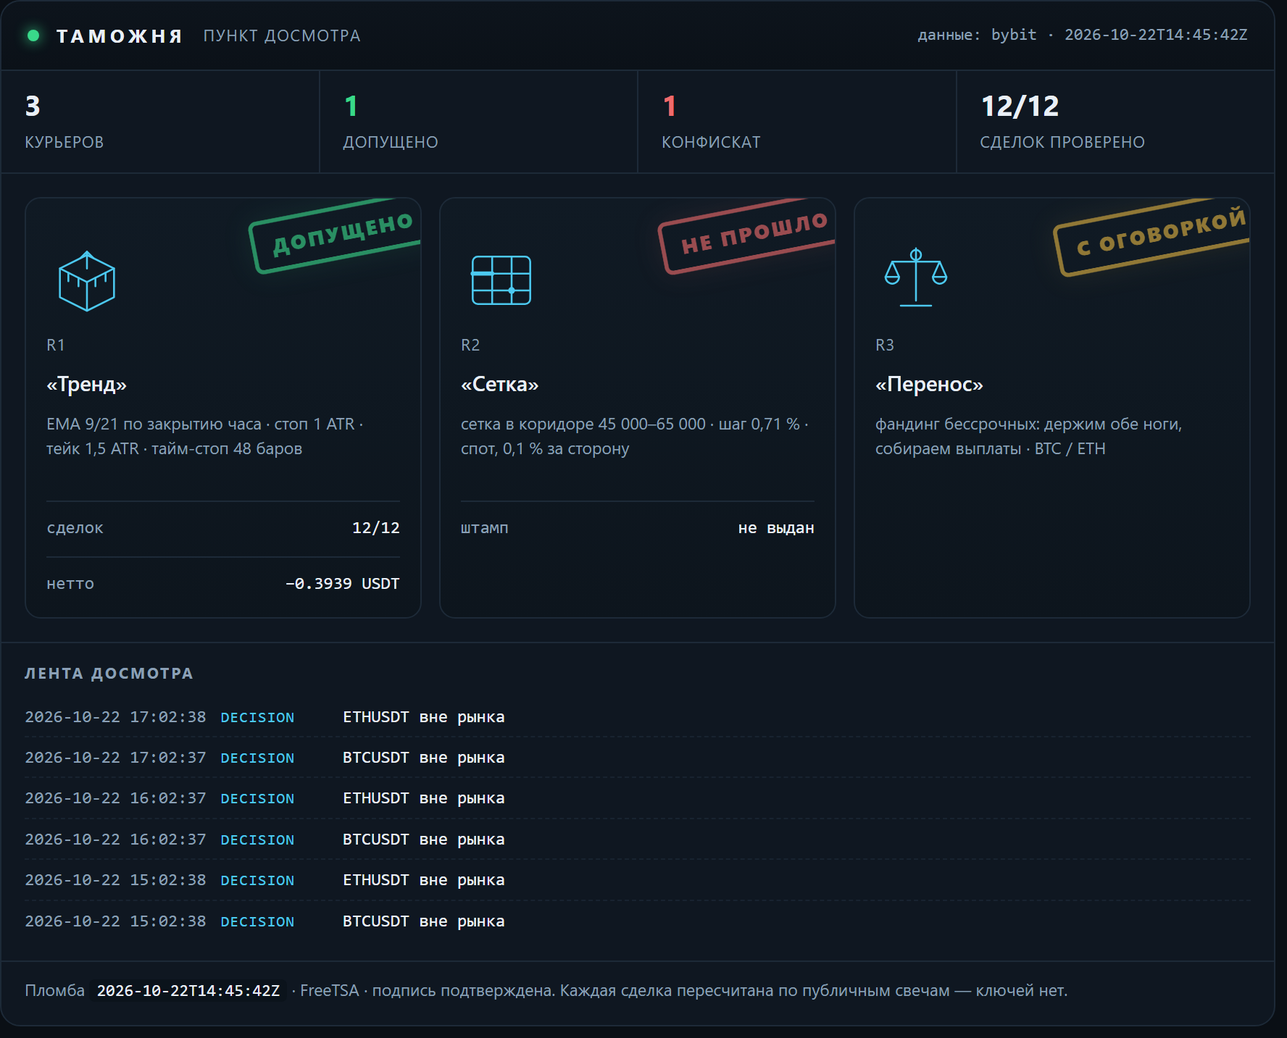
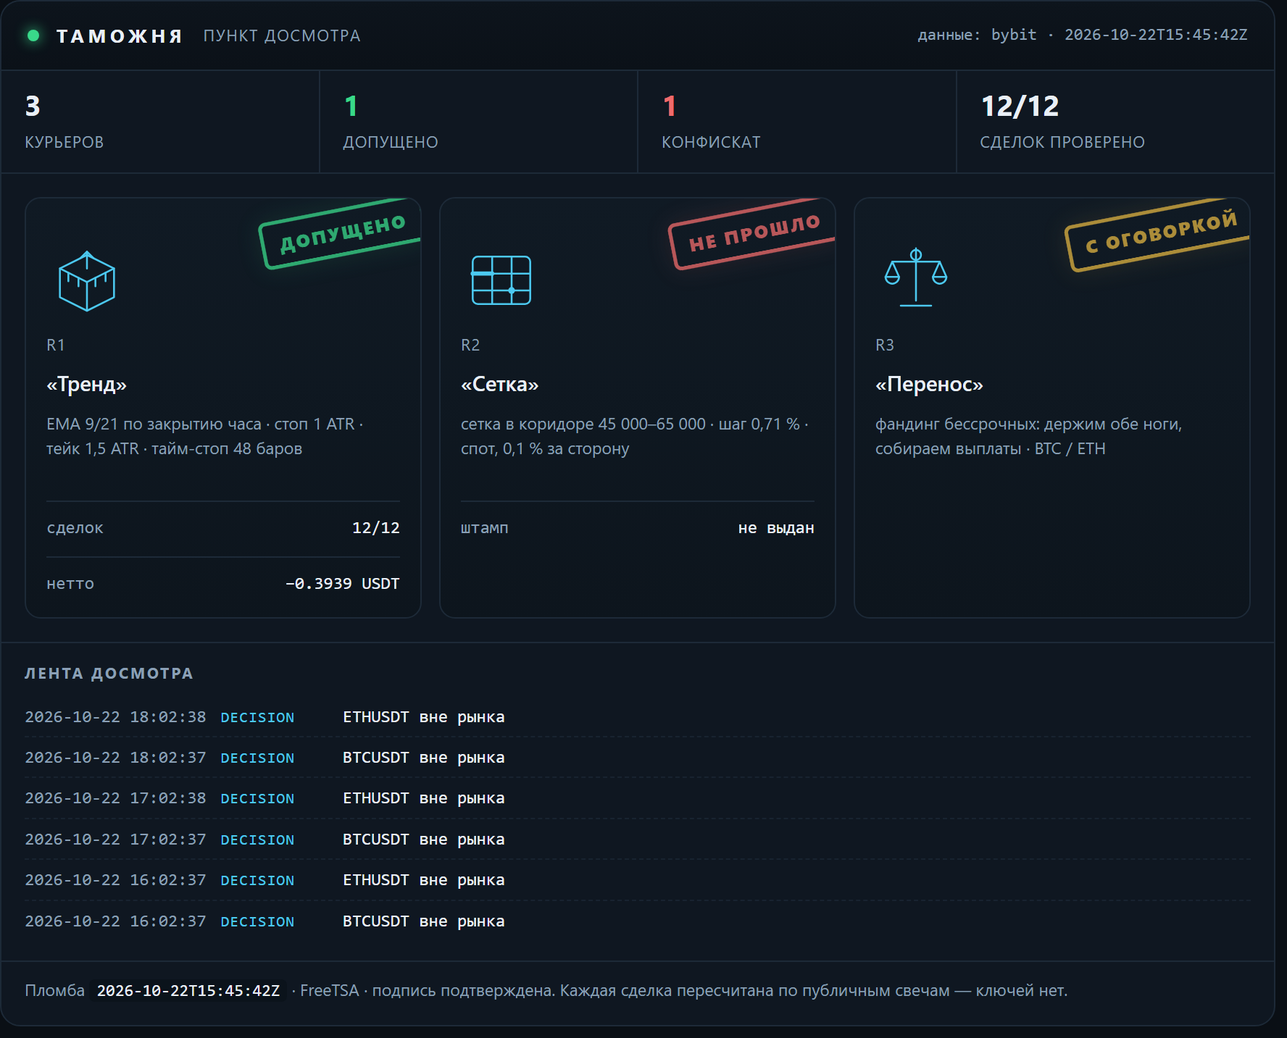
lab: таможня — свежие числа досмотра

Changed region(s): [[0.8052, 0.1842, 0.96, 0.2763], [0.4955, 0.1842, 0.6503, 0.2763], [0.1858, 0.1842, 0.3407, 0.2763]]

diff --git a/docs/customs.html b/docs/customs.html
@@ -16,7 +16,7 @@
   <h1><a href="index.html">Gramwright Lab</a></h1>
   <p>Журнал проверки торговых гипотез: что проверяли, что вышло по факту, сколько съели издержки. Числа берутся из журнала стенда. Не инвестиционная рекомендация.</p>
 </header>
-<h1>Таможня</h1><p class="intro">Пункт досмотра заявленных результатов. Стратегии приезжают с грузом обещаний, и каждая проходит проверку по публичным данным биржи: цены существуют, комиссии по тарифу, нетто сходится. Что прошло — получает штамп. Что не прошло — в конфискат, с причиной. Штамп означает «записи подлинные», а не «стратегия прибыльна».</p><p><img src="img/customs.png" alt="Терминал досмотра: три курьера, штампы, лента событий" style="width:100%;height:auto;border:1px solid var(--line);border-radius:10px"></p><p class="c-note">Сверху — тот же терминал, что собирается из журналов: счётчики, эмблемы курьеров, штампы и лента последних событий. Ниже — то же самое текстом, чтобы читалось с телефона и индексировалось поиском.</p><article><h2>R1 «Тренд» <span class="verdict">— <span class="c-ok">допущено</span></span></h2><p><strong>Правило:</strong> EMA 9/21 по закрытию часа · стоп 1 ATR · тейк 1,5 ATR · тайм-стоп 48 баров</p><p><strong>Декларация:</strong> Заявлено до прогона: держать 30 сделок, лимит нотионала 10 % от счёта, стоп дня −1 %. Прибыль не заявлялась — это важно: курьер не обещал доход.</p><p><strong>Проверено по публичным свечам, без ключей:</strong> 12 из 12 сделок. Сумма нетто −0.3939 USDT.</p><ul class="c-chk"><li class="y">BTCUSDT: нетто −0.8746 USDT · комиссии 0.0901 · проверено · с поправкой</li><li class="y">BTCUSDT: нетто −0.5441 USDT · комиссии 0.0896 · проверено</li><li class="y">ETHUSDT: нетто −0.2253 USDT · комиссии 0.0266 · проверено</li><li class="y">ETHUSDT: нетто −0.1513 USDT · комиссии 0.0265 · проверено</li><li class="y">ETHUSDT: нетто +0.1984 USDT · комиссии 0.0262 · проверено</li><li class="y">ETHUSDT: нетто +0.1617 USDT · комиссии 0.0260 · проверено</li><li class="y">ETHUSDT: нетто +0.2645 USDT · комиссии 0.0263 · проверено</li><li class="y">BTCUSDT: нетто +0.6246 USDT · комиссии 0.0897 · проверено</li><li class="y">BTCUSDT: нетто −0.5881 USDT · комиссии 0.0910 · проверено</li><li class="y">ETHUSDT: нетто −0.2403 USDT · комиссии 0.0270 · проверено</li><li class="y">BTCUSDT: нетто +0.6908 USDT · комиссии 0.0908 · проверено</li><li class="y">ETHUSDT: нетто +0.2898 USDT · комиссии 0.0267 · проверено</li></ul><p class="tags">журнал sha256 9651e2c36b77c64c… · проверяльщик verify-1</p><p class="c-note">Штамп означает: записи подлинные, а не что стратегия прибыльна. Курьер в минусе, и минус тоже стоит на штампе — иначе это была бы не проверка, а реклама.</p><p class="tags">источник: verify-report.json</p></article><article><h2>R2 «Сетка» <span class="verdict">— <span class="c-bad">не прошло</span></span></h2><p><strong>Правило:</strong> сетка в коридоре 45 000–65 000 · шаг 0,71 % · спот, 0,1 % за сторону</p><p><strong>Декларация:</strong> Заявлено: «44 % урожая уходит бирже в виде комиссий». Кроме того — перевес над простым владением монетой.</p><p><strong>Что сошлось:</strong></p><ul class="c-chk"><li class="y">сами числа пересчитаны и воспроизводятся: коридор 45–65k был активен 23 % всей истории и 28 % последних двух лет</li></ul><p><strong>Что не сошлось:</strong></p><ul class="c-chk"><li class="n">44 % не подтвердилось: при шаге 0,71 % и тарифе 0,1 % комиссия съедает 28,3 % шага. Чтобы получить 44 %, нужен шаг 0,45 % — это около 80 уровней, а не 50</li><li class="n">от урожая доля комиссий 85,5 % за всю историю и 49,6 % за последние два года — тоже не 44 %</li><li class="n">перевес над владением посчитан на тарифе 0,055 %: при нём +1,32 п. п., на розничном 0,1 % — −0,72 п. п. То есть перевес исчезает</li><li class="n">семилетний тест стартовал в сентябре 2019 при биткоине около 10 000 — ниже коридора. Он говорит, что фиксированный коридор не подходит для периода, а не что сетка отстаёт</li></ul><p class="tags">источник: lab_grid.py, пересчёт 17.10.2026</p></article><article><h2>R3 «Перенос» <span class="verdict">— <span class="c-warn">с оговоркой</span></span></h2><p><strong>Правило:</strong> фандинг бессрочных: держим обе ноги, собираем выплаты · BTC / ETH</p><p><strong>Декларация:</strong> Заявлено: около 11,9 % в год от выплат фандинга при просадке выплатной кривой меньше 2 %.</p><p><strong>Что сошлось:</strong></p><ul class="c-chk"><li class="y">выплаты взяты из публичной истории биржи, ключей не нужно: BTC — 7 190 выплат с 25.03.2020, ETH — 6 561 с 21.10.2020</li><li class="y">сумма сходится: +83,4 % и +83,2 % за 6,6 и 6,0 года — те самые ~11,9 % в год</li><li class="y">худшая просадка выплатной кривой: −1,65 % и −1,97 %</li></ul><p><strong>Что не сошлось:</strong></p><ul class="c-chk"><li class="n">оговорка 1: премию сжали — 2021 год дал +38,3 %, 2026 — +1,96 %. Прошлое не повторяется</li><li class="n">оговорка 2: вход-выход стоит около 0,31 %, капитала нужно 1,2 от нотионала, текущий базис −0,082 % против входа</li><li class="n">оговорка 3: риск площадки. История FTX в этой же таблице выглядела так же прилично</li></ul><p class="tags">источник: публичная история фандинга Bybit, замер 17.10.2026</p></article><div class="c-conf"><h3>Конфискат</h3><p><strong>«Сетка»: заявленные 44 % комиссий не подтвердились.</strong> Досмотр показал 28,3 % от шага и 85,5 % от урожая — цифра хуже заявленной по форме, но лучше по смыслу: сетку убивает не размер шага, а то, что урожай почти весь уходит в комиссии. Это и вышло в выпуск — с поправкой, а не с красивой цифрой.</p></div><p class="c-note">Пломба: <code>2026-10-22T14:45:42Z</code> · нотариус FreeTSA · Oct 22 14:45:42 2026 GMT · подпись подтверждена. Манифест скрепляет отчёт проверки, журнал сделок и декларации курьеров: подменишь любую цифру — пломба перестанет сходиться.</p><p class="c-note">Досмотр идёт по публичным минутным свечам и публичной истории фандинга — ключей у проверяющего нет, и он может повторить проверку сам.</p><p class="c-note">Контент образовательный, не является инвестиционной рекомендацией. Торговля связана с риском потери капитала.</p>
+<h1>Таможня</h1><p class="intro">Пункт досмотра заявленных результатов. Стратегии приезжают с грузом обещаний, и каждая проходит проверку по публичным данным биржи: цены существуют, комиссии по тарифу, нетто сходится. Что прошло — получает штамп. Что не прошло — в конфискат, с причиной. Штамп означает «записи подлинные», а не «стратегия прибыльна».</p><p><img src="img/customs.png" alt="Терминал досмотра: три курьера, штампы, лента событий" style="width:100%;height:auto;border:1px solid var(--line);border-radius:10px"></p><p class="c-note">Сверху — тот же терминал, что собирается из журналов: счётчики, эмблемы курьеров, штампы и лента последних событий. Ниже — то же самое текстом, чтобы читалось с телефона и индексировалось поиском.</p><article><h2>R1 «Тренд» <span class="verdict">— <span class="c-ok">допущено</span></span></h2><p><strong>Правило:</strong> EMA 9/21 по закрытию часа · стоп 1 ATR · тейк 1,5 ATR · тайм-стоп 48 баров</p><p><strong>Декларация:</strong> Заявлено до прогона: держать 30 сделок, лимит нотионала 10 % от счёта, стоп дня −1 %. Прибыль не заявлялась — это важно: курьер не обещал доход.</p><p><strong>Проверено по публичным свечам, без ключей:</strong> 12 из 12 сделок. Сумма нетто −0.3939 USDT.</p><ul class="c-chk"><li class="y">BTCUSDT: нетто −0.8746 USDT · комиссии 0.0901 · проверено · с поправкой</li><li class="y">BTCUSDT: нетто −0.5441 USDT · комиссии 0.0896 · проверено</li><li class="y">ETHUSDT: нетто −0.2253 USDT · комиссии 0.0266 · проверено</li><li class="y">ETHUSDT: нетто −0.1513 USDT · комиссии 0.0265 · проверено</li><li class="y">ETHUSDT: нетто +0.1984 USDT · комиссии 0.0262 · проверено</li><li class="y">ETHUSDT: нетто +0.1617 USDT · комиссии 0.0260 · проверено</li><li class="y">ETHUSDT: нетто +0.2645 USDT · комиссии 0.0263 · проверено</li><li class="y">BTCUSDT: нетто +0.6246 USDT · комиссии 0.0897 · проверено</li><li class="y">BTCUSDT: нетто −0.5881 USDT · комиссии 0.0910 · проверено</li><li class="y">ETHUSDT: нетто −0.2403 USDT · комиссии 0.0270 · проверено</li><li class="y">BTCUSDT: нетто +0.6908 USDT · комиссии 0.0908 · проверено</li><li class="y">ETHUSDT: нетто +0.2898 USDT · комиссии 0.0267 · проверено</li></ul><p class="tags">журнал sha256 90d1d3a9fa673c6d… · проверяльщик verify-1</p><p class="c-note">Штамп означает: записи подлинные, а не что стратегия прибыльна. Курьер в минусе, и минус тоже стоит на штампе — иначе это была бы не проверка, а реклама.</p><p class="tags">источник: verify-report.json</p></article><article><h2>R2 «Сетка» <span class="verdict">— <span class="c-bad">не прошло</span></span></h2><p><strong>Правило:</strong> сетка в коридоре 45 000–65 000 · шаг 0,71 % · спот, 0,1 % за сторону</p><p><strong>Декларация:</strong> Заявлено: «44 % урожая уходит бирже в виде комиссий». Кроме того — перевес над простым владением монетой.</p><p><strong>Что сошлось:</strong></p><ul class="c-chk"><li class="y">сами числа пересчитаны и воспроизводятся: коридор 45–65k был активен 23 % всей истории и 28 % последних двух лет</li></ul><p><strong>Что не сошлось:</strong></p><ul class="c-chk"><li class="n">44 % не подтвердилось: при шаге 0,71 % и тарифе 0,1 % комиссия съедает 28,3 % шага. Чтобы получить 44 %, нужен шаг 0,45 % — это около 80 уровней, а не 50</li><li class="n">от урожая доля комиссий 85,5 % за всю историю и 49,6 % за последние два года — тоже не 44 %</li><li class="n">перевес над владением посчитан на тарифе 0,055 %: при нём +1,32 п. п., на розничном 0,1 % — −0,72 п. п. То есть перевес исчезает</li><li class="n">семилетний тест стартовал в сентябре 2019 при биткоине около 10 000 — ниже коридора. Он говорит, что фиксированный коридор не подходит для периода, а не что сетка отстаёт</li></ul><p class="tags">источник: lab_grid.py, пересчёт 17.10.2026</p></article><article><h2>R3 «Перенос» <span class="verdict">— <span class="c-warn">с оговоркой</span></span></h2><p><strong>Правило:</strong> фандинг бессрочных: держим обе ноги, собираем выплаты · BTC / ETH</p><p><strong>Декларация:</strong> Заявлено: около 11,9 % в год от выплат фандинга при просадке выплатной кривой меньше 2 %.</p><p><strong>Что сошлось:</strong></p><ul class="c-chk"><li class="y">выплаты взяты из публичной истории биржи, ключей не нужно: BTC — 7 190 выплат с 25.03.2020, ETH — 6 561 с 21.10.2020</li><li class="y">сумма сходится: +83,4 % и +83,2 % за 6,6 и 6,0 года — те самые ~11,9 % в год</li><li class="y">худшая просадка выплатной кривой: −1,65 % и −1,97 %</li></ul><p><strong>Что не сошлось:</strong></p><ul class="c-chk"><li class="n">оговорка 1: премию сжали — 2021 год дал +38,3 %, 2026 — +1,96 %. Прошлое не повторяется</li><li class="n">оговорка 2: вход-выход стоит около 0,31 %, капитала нужно 1,2 от нотионала, текущий базис −0,082 % против входа</li><li class="n">оговорка 3: риск площадки. История FTX в этой же таблице выглядела так же прилично</li></ul><p class="tags">источник: публичная история фандинга Bybit, замер 17.10.2026</p></article><div class="c-conf"><h3>Конфискат</h3><p><strong>«Сетка»: заявленные 44 % комиссий не подтвердились.</strong> Досмотр показал 28,3 % от шага и 85,5 % от урожая — цифра хуже заявленной по форме, но лучше по смыслу: сетку убивает не размер шага, а то, что урожай почти весь уходит в комиссии. Это и вышло в выпуск — с поправкой, а не с красивой цифрой.</p></div><p class="c-note">Пломба: <code>2026-10-22T15:45:42Z</code> · нотариус FreeTSA · Oct 22 15:45:42 2026 GMT · подпись подтверждена. Манифест скрепляет отчёт проверки, журнал сделок и декларации курьеров: подменишь любую цифру — пломба перестанет сходиться.</p><p class="c-note">Досмотр идёт по публичным минутным свечам и публичной истории фандинга — ключей у проверяющего нет, и он может повторить проверку сам.</p><p class="c-note">Контент образовательный, не является инвестиционной рекомендацией. Торговля связана с риском потери капитала.</p>
 <footer class="site">
   Код стенда и аудитора: <a href="https://github.com/XSlaidx/truth-engine">XSlaidx/truth-engine</a>
   &middot; <a href="graveyard.html">кладбище правил</a>
